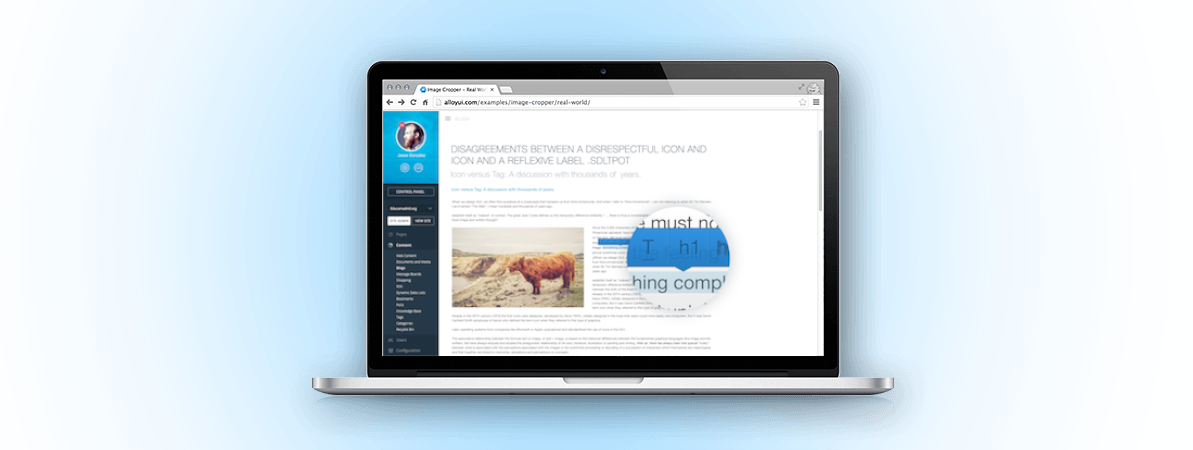
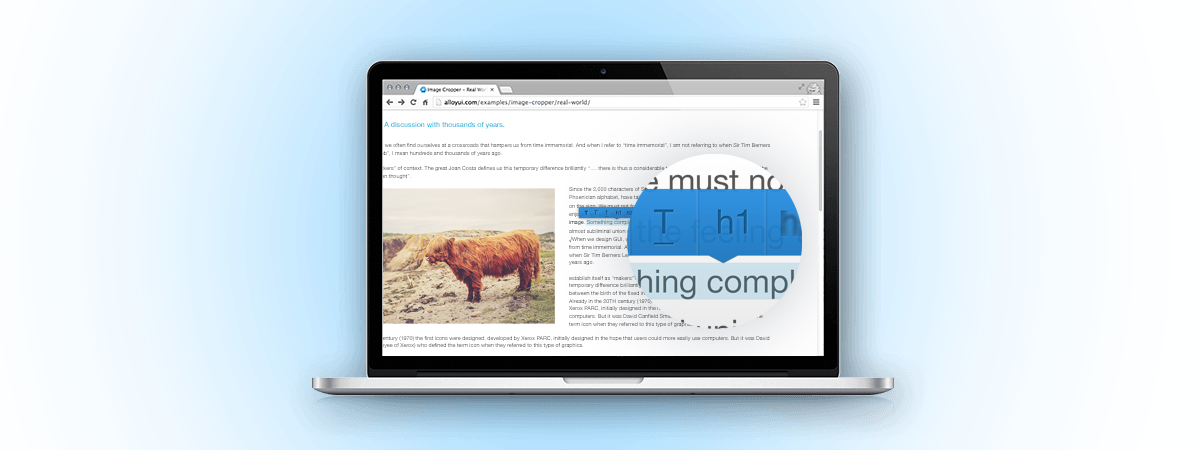
Reorganize the data about the toolbars

Changed region(s): [[0.3101, 0.2489, 0.6823, 0.8089]]

diff --git a/src/files/website/css/main.css b/src/files/website/css/main.css
@@ -154,7 +154,18 @@ body {
 }
 
 body {
-  font-family: 'Open Sans', sans-serif;
+  font-family: Helvetica, Arial, sans-serif;
+  font-size: 16px;
+  line-height: 1.6em;
+}
+
+p {
+  font-weight: 300;
+}
+
+li {
+  font-weight: 300;
+  line-height: 1.6em;
 }
 
 blockquote {
@@ -486,6 +497,10 @@ pre {
 .alloy-robot {
   margin-top: 0;
   position: relative;
+}
+
+.link-to-tutorials {
+  font-size: 26px;
 }
 
 #page-example .title {

diff --git a/docpad.js b/docpad.js
@@ -39,6 +39,7 @@ module.exports = {
             // Basic info
             title: 'Alloy Editor',
             description: 'Alloy Editor is a modern WYSIWYG editor built on top of CKEditor, designed to create modern and gorgeous web content.'
+
         },
 
         /* -----------------------------
